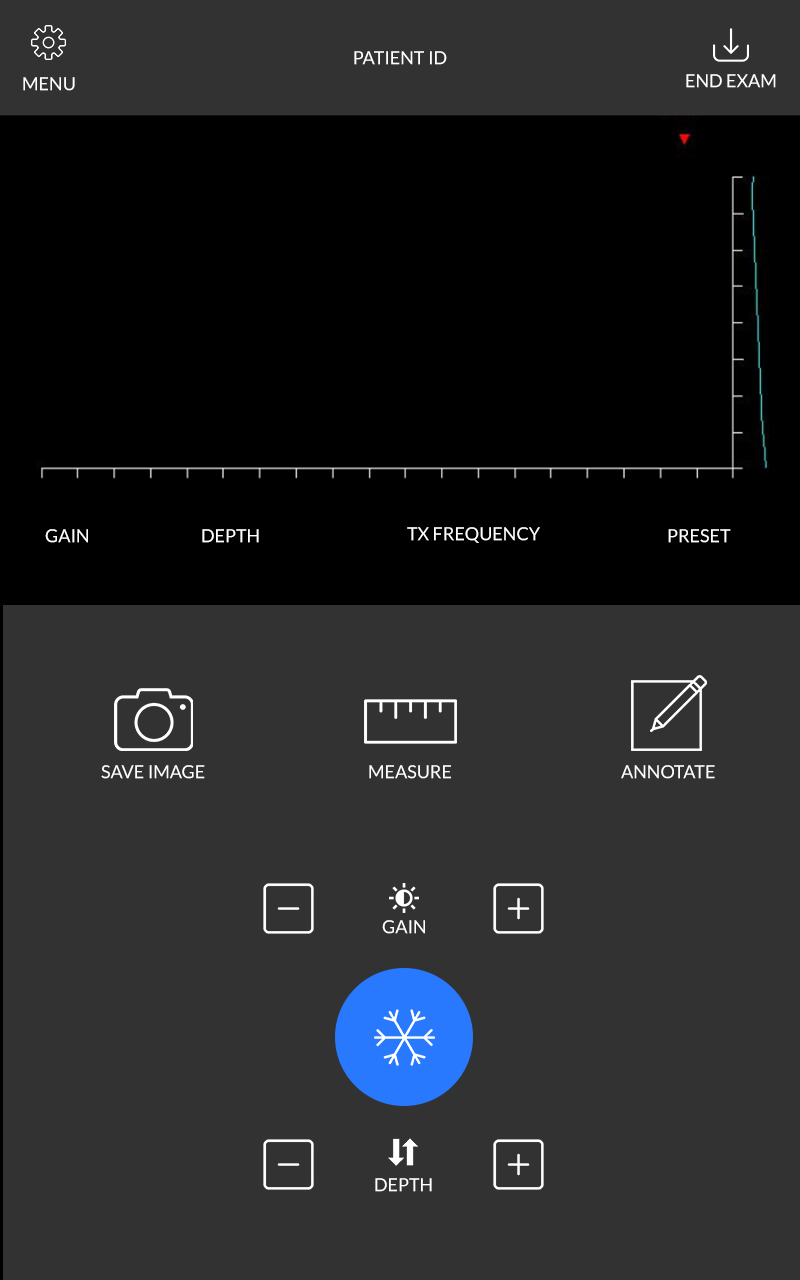
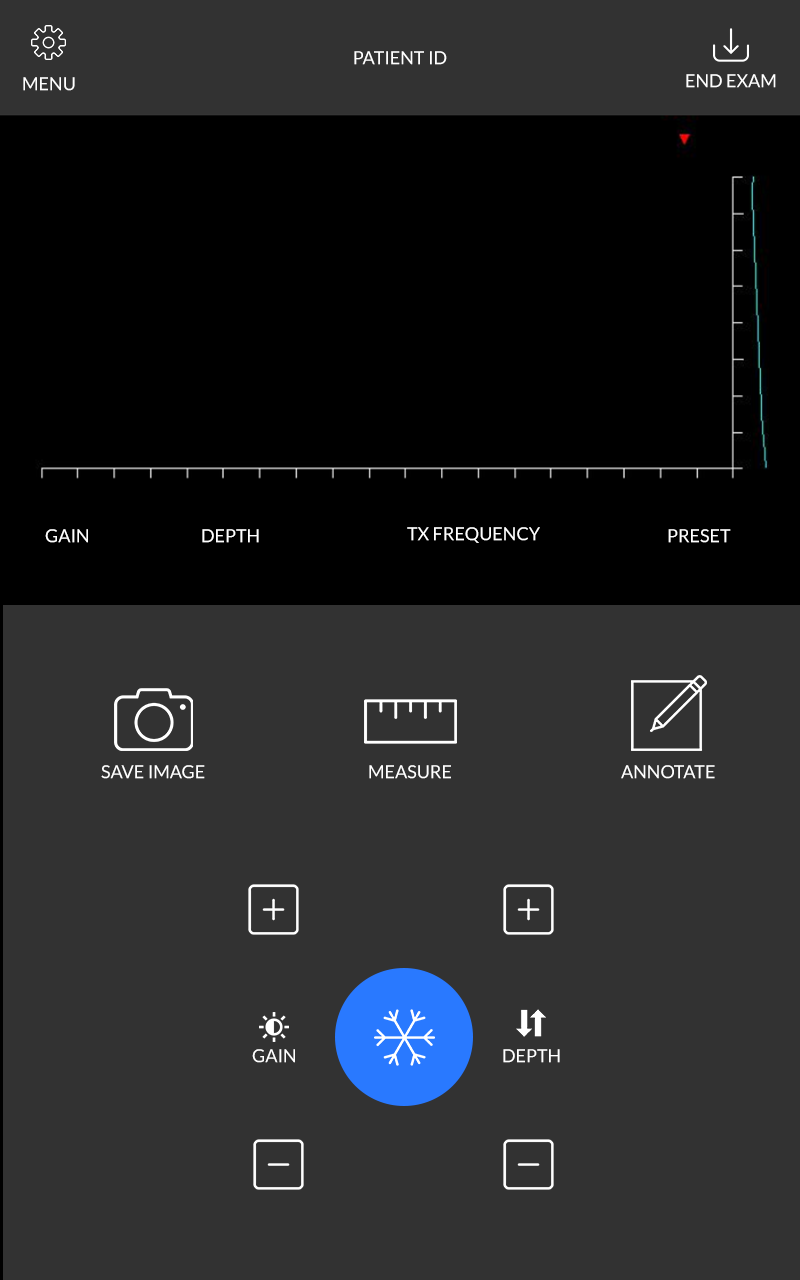
changed menu height, updated badanie screen

diff --git a/USG_tablet_UI/Pages/Urzadzenia.xaml b/USG_tablet_UI/Pages/Urzadzenia.xaml
@@ -11,11 +11,11 @@
         <Image HorizontalAlignment="Left" Height="1280" Margin="0,0,0,0" VerticalAlignment="Top" Width="800" Source="pack://application:,,,/gfx/badanie.png"/>
         <Image x:Name="imgVideo" HorizontalAlignment="Left" Height="400" VerticalAlignment="Top" Width="800" Margin="0,120,0,0"/>
         <Button x:Name="btnFreeze" Content="" HorizontalAlignment="Left" Margin="329,964,0,0" VerticalAlignment="Top" Width="148" Height="141" Click="btnFreeze_Click" Opacity="0"/>
-        <Button x:Name="btnGainUp" HorizontalAlignment="Left" Margin="484,874,0,0" VerticalAlignment="Top" Width="68" Height="70" Click="btnGainUp_Click" Opacity="0"/>
-        <Button x:Name="btnGainDown" Content="GAIN DOWN" HorizontalAlignment="Left" Margin="254,874,0,0" VerticalAlignment="Top" Width="68" Height="70" Click="btnGainDown_Click" Opacity="0"/>
+        <Button x:Name="btnGainUp" HorizontalAlignment="Left" Margin="254,872,0,0" VerticalAlignment="Top" Width="68" Height="70" Click="btnGainUp_Click" Opacity="0"/>
+        <Button x:Name="btnGainDown" Content="GAIN DOWN" HorizontalAlignment="Left" Margin="254,1129,0,0" VerticalAlignment="Top" Width="68" Height="70" Click="btnGainDown_Click" Opacity="0"/>
         <Label x:Name="lblGain" Content="" HorizontalAlignment="Left" Margin="28,558,0,0" VerticalAlignment="Top" Width="84" Height="34" HorizontalContentAlignment="Center" FontFamily="Lato" FontSize="18" Foreground="#DDFFFFFF"/>
-        <Button x:Name="btnDepthUp" Content="GAIN UP" HorizontalAlignment="Left" Margin="484,1128,0,0" VerticalAlignment="Top" Width="68" Height="70" Opacity="0" Click="btnDepthUp_Click" RenderTransformOrigin="-1.853,0.621"/>
-        <Button x:Name="btnDepthDown" Content="GAIN UP" HorizontalAlignment="Left" Margin="254,1128,0,0" VerticalAlignment="Top" Width="68" Height="70" Opacity="0" Click="btnDepthDown_Click"/>
+        <Button x:Name="btnDepthUp" Content="GAIN UP" HorizontalAlignment="Left" Margin="484,872,0,0" VerticalAlignment="Top" Width="68" Height="70" Opacity="0" Click="btnDepthUp_Click" RenderTransformOrigin="-1.853,0.621"/>
+        <Button x:Name="btnDepthDown" Content="GAIN UP" HorizontalAlignment="Left" Margin="484,1129,0,0" VerticalAlignment="Top" Width="68" Height="70" Opacity="0" Click="btnDepthDown_Click"/>
         <Button x:Name="btnSaveImage" HorizontalAlignment="Left" Margin="93,678,0,0" VerticalAlignment="Top" Width="120" Height="109" Opacity="0" Click="btnSaveImage_Click"/>
         <Button x:Name="btnEndExam" HorizontalAlignment="Left" Margin="674,23,0,0" VerticalAlignment="Top" Width="116" Height="82" Opacity="0" Click="btnEndExam_Click"/>
         <Label x:Name="lblDepth" Content="" HorizontalAlignment="Left" Margin="146,558,0,0" VerticalAlignment="Top" Width="166" Height="34" Foreground="#DDFFFFFF" HorizontalContentAlignment="Center" FontSize="18" FontFamily="Lato"/>

diff --git a/USG_tablet_UI/Windows/SettingsGeneralWindow.xaml.cs b/USG_tablet_UI/Windows/SettingsGeneralWindow.xaml.cs
@@ -23,7 +23,7 @@ namespace USG_tablet_UI
         {
             InitializeComponent();
             this.Left = 0;
-            this.Top = 0;
+            this.Top = 116;
         }
 
         private void btnClose_Click(object sender, RoutedEventArgs e)
